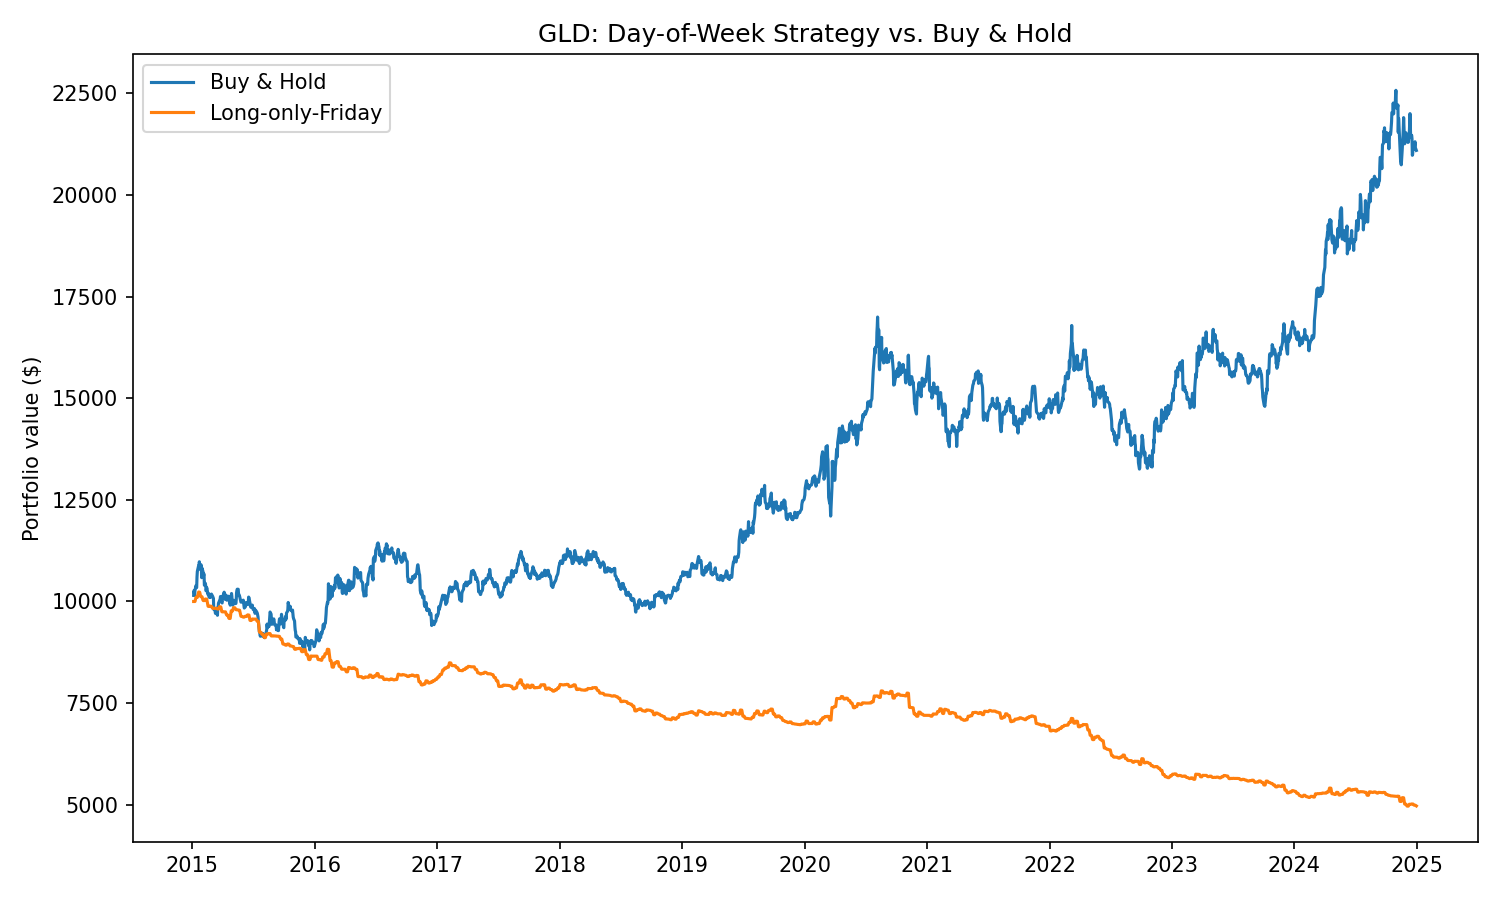
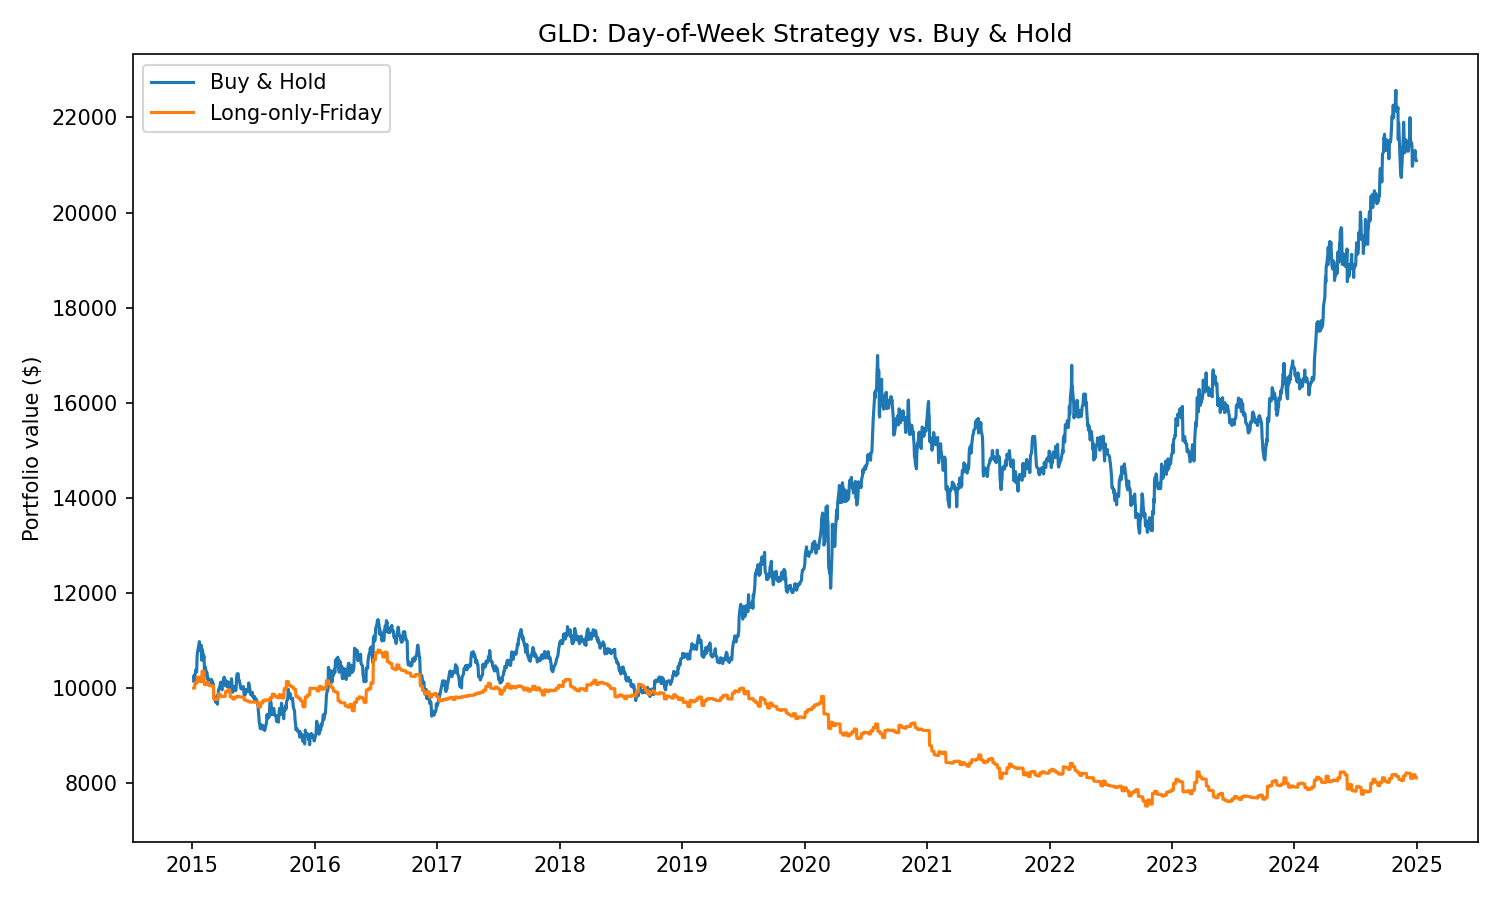
Updated backtest

diff --git a/Week 3 - Calendar Effects/strategy.py b/Week 3 - Calendar Effects/strategy.py
@@ -152,10 +152,9 @@ def backtest(df: pd.DataFrame, positions: pd.Series, cost_bps: float = TRANSACTI
     result["position"] = positions
     result["trade"] = result["position"].diff().abs().fillna(0)
 
-    lagged_position = result["position"].shift(1).fillna(0)
-    cost = result["trade"].shift(1).fillna(0) * (cost_bps / 10_000)
+    cost = result["trade"] * (cost_bps / 10_000)
 
-    result["strategy_returns"] = lagged_position * result["returns"] - cost
+    result["strategy_returns"] = result["position"] * result["returns"] - cost
     result["benchmark_returns"] = result["returns"]
 
     result["strategy_equity"] = INITIAL_CAPITAL * (1 + result["strategy_returns"]).cumprod()

diff --git a/Week 3 - Calendar Effects/README.md b/Week 3 - Calendar Effects/README.md
@@ -25,17 +25,17 @@ This week tests it directly:
 
 | Ticker | Best day  | ANOVA p-value | Significant? | Strategy total return | B&H total return | Strategy Sharpe | B&H Sharpe |
 |--------|-----------|---------------|---------------|------------------------|-------------------|------------------|------------|
-| SPY    | Wednesday | 0.99          | No            | -31.5%                 | +240.8%           | -0.43            | 0.79       |
-| QQQ    | Wednesday | 0.77          | No            | -27.7%                 | +441.2%           | -0.27            | 0.89       |
-| AAPL   | Monday    | 0.17          | No            | +49.9%                 | +935.9%           | 0.41             | 0.97       |
-| MSFT   | Wednesday | 0.78          | No            | -15.2%                 | +958.0%           | -0.08            | 1.01       |
-| GLD    | Friday    | 0.72          | No            | -50.3%                 | +110.9%           | -1.07            | 0.60       |
+| SPY    | Wednesday | 0.99          | No            | -16.5%                 | +240.8%           | -0.20            | 0.79       |
+| QQQ    | Wednesday | 0.77          | No            | +2.3%                  | +441.2%           | 0.07             | 0.89       |
+| AAPL   | Monday    | 0.17          | No            | +69.1%                 | +935.9%           | 0.47             | 0.97       |
+| MSFT   | Wednesday | 0.78          | No            | +43.2%                 | +958.0%           | 0.35             | 1.01       |
+| GLD    | Friday    | 0.72          | No            | -18.9%                 | +110.9%           | -0.28            | 0.60       |
 
 > **[Insert per-ticker day-of-week bar charts and equity curves here]**
 
 **No ticker showed a statistically significant day-of-week effect.** AAPL had the lowest p-value at 0.17 — still well above the 0.05 threshold. The "best day" varies across the basket (Wednesday for three tickers, Monday for one, Friday for one), which is the pattern you'd expect from sampling noise, not a real anomaly.
 
-The strategy underperformed buy-and-hold on every ticker, in both total return and Sharpe. With ~20% time in market and no statistically significant edge, that's the arithmetically expected outcome — most of the gap is opportunity cost, not bad trades.
+The strategy underperformed buy-and-hold on every ticker, in both total return and Sharpe. Three of five tickers (QQQ, AAPL, MSFT) produced positive strategy returns in absolute terms, but the opportunity cost of sitting out 80% of trading days crushed them all — AAPL's +69.1% shrinks next to buy-and-hold's +935.9%. That's the arithmetically expected outcome of a 20%-time-in-market rule with no statistically significant edge.
 
 The Monday effect that 1970s finance papers found in US equities doesn't show up in 2015–2024 data — at least not on this basket and not at p < 0.05. Detailed analysis in the Medium write-up.
 
